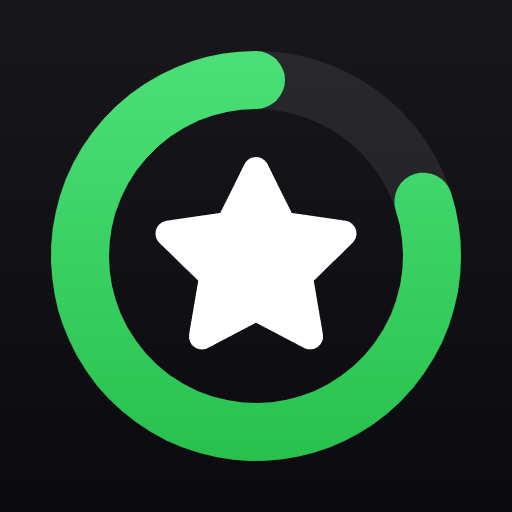
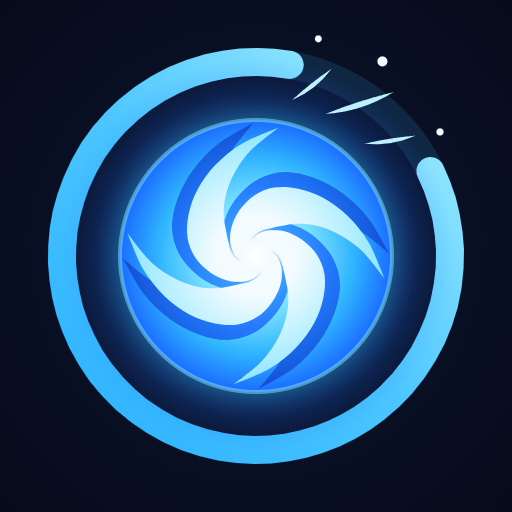
Neues App-Symbol: wirbelnde blaue Energiekugel mit offenem Ring
Ersetzt den grünen Ring mit Stern. Eigene Zeichnung aus Verläufen und
spitz auslaufenden Wirbelbändern, ohne Filter, reines SVG: Kugel mit
hellem Kern, darum ein offener Ring mit runden Enden (Lücke oben rechts)
wie der Fortschrittsring im Training.

- icons/icon.svg: Vollbild, iOS rundet selbst
- icons/icon-maskable.svg: Inhalt auf 88 %, Ring in der Schutzzone
- favicon.svg: vereinfachte Fassung (weniger Bänder, dickere Formen)
- PNGs per npm run icons neu erzeugt
- Checkliste: Beschreibung des Symbols angepasst

diff --git a/docs/iphone-checkliste.md b/docs/iphone-checkliste.md
@@ -86,5 +86,5 @@ Am schnellsten mit dem Zirkel **"Schnelltest (alle Signale)"** (2:33 min).
 | 11 | Ton länger als 8 s wählen | wird mit Begründung abgelehnt |
 | 11a | Langen eigenen Ton (5 bis 8 s) für "Runde geschafft" bei kurzer Rundenpause (z.B. 10 s) | Ton bricht beim ersten Countdown-Ton ab, Countdown bleibt hörbar |
 | 12 | Sicherung herunterladen, Datei ansehen | enthält weder Bild noch Ton |
-| 13 | App vom Home-Bildschirm löschen und neu hinzufügen | neues Symbol (grüner Ring mit Stern), Name "Circle Champ". Vorher Sicherung herunterladen, Bild und Töne müssen danach neu gewählt werden |
+| 13 | App vom Home-Bildschirm löschen und neu hinzufügen | neues Symbol (blaue wirbelnde Kugel mit offenem Ring), Name "Circle Champ". Vorher Sicherung herunterladen, Bild und Töne müssen danach neu gewählt werden |
 | 14 | Flugmodus, App neu öffnen, Design wechseln | Schrift und Figuren erscheinen auch offline |
